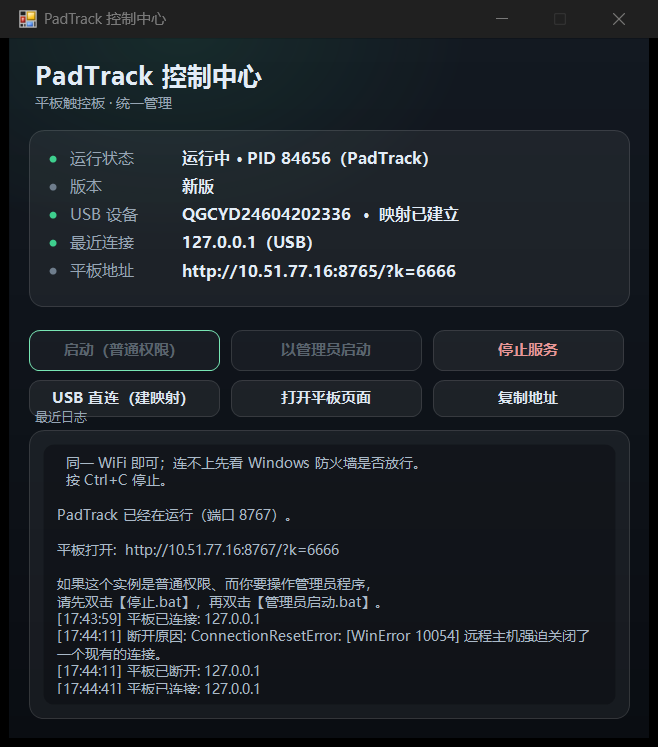
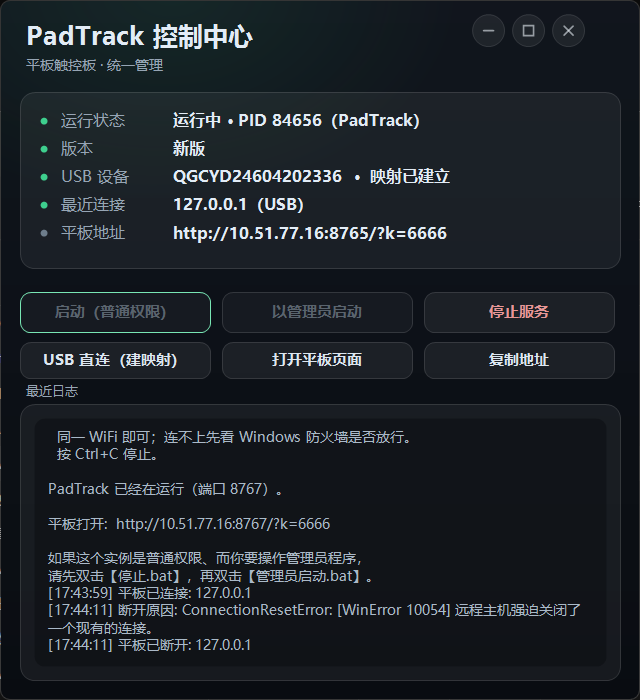
feat(控制中心): 无边框大圆角 + 亚克力模糊 + 自绘窗口按钮
- FormBorderStyle=None，DwmExtendFrameIntoClientArea 保留投影，DWMWA_WINDOW_CORNER_PREFERENCE=2 大圆角
- 桌面亚克力：Win11 用 DWMWA_SYSTEMBACKDROP_TYPE=3，其余走 SetWindowCompositionAttribute
- 背景改半透明，否则玻璃透不出来
- 右上角自绘胶囊按钮：最小化 / 最大化 / 关闭（悬停变红），顶部 70px 可拖动
- 界面按 640x700 设计，绘制时整体缩放居中，最大化也不变形
- 修：Add_Shown 时序不可靠导致首帧无数据 —— 改为 ShowDialog 前同步刷新一次

截图见 docs/center.png。

diff --git a/交接文档.md b/交接文档.md
@@ -543,6 +543,25 @@ html.glass-light { --glass-top: rgba(255,255,255,.11); ... } /* 白玻璃 */
 4. 在 PowerShell 的 `@"..."@` 里写带 `$` 的代码会被插值吃掉——
    生成脚本一律用 Python 写文件，别用内联 here-string
 
+## 控制中心：无边框 + 圆角 + 亚克力
+
+- `FormBorderStyle = None`，用 `DwmExtendFrameIntoClientArea(1,1,1,1)` 保留投影
+- `DWMWA_WINDOW_CORNER_PREFERENCE = 2`（Win11）→ 大圆角
+- 背景必须画成半透明（alpha 168/200），否则亚克力透不出来
+- 右上角三个自绘胶囊按钮：最小化 / 最大化 / 关闭；关闭按钮悬停变红
+- 顶部 70px 走 `WM_NCHITTEST → HTCAPTION` 可拖动，按钮区域返回 HTCLIENT
+- 界面按 640×700 设计，`OnPaint` 里 `ScaleTransform + TranslateTransform` 整体缩放居中，
+  所以最大化时内容会等比放大而不是挤在左上角
+
+### 一个隐蔽的坑：Add_Shown 没触发
+
+现象：窗口画出来了，但状态区和日志全是空的，`Lines.Length == 0`。
+
+排查过程：加打点后发现 `Refresh-Ui` 只进了函数头、没走到函数尾，但 catch 里没有任何错误。
+
+解决：**不要依赖 `Add_Shown` 的时序**，在 `ShowDialog()` 之前同步调一次刷新，
+之后交给 2 秒的 Timer。改完首帧就有数据。
+
 ## 关停服务和它的坑
 
 `停止.bat` 现在会**自动提权**：普通权限杀不掉时，用
